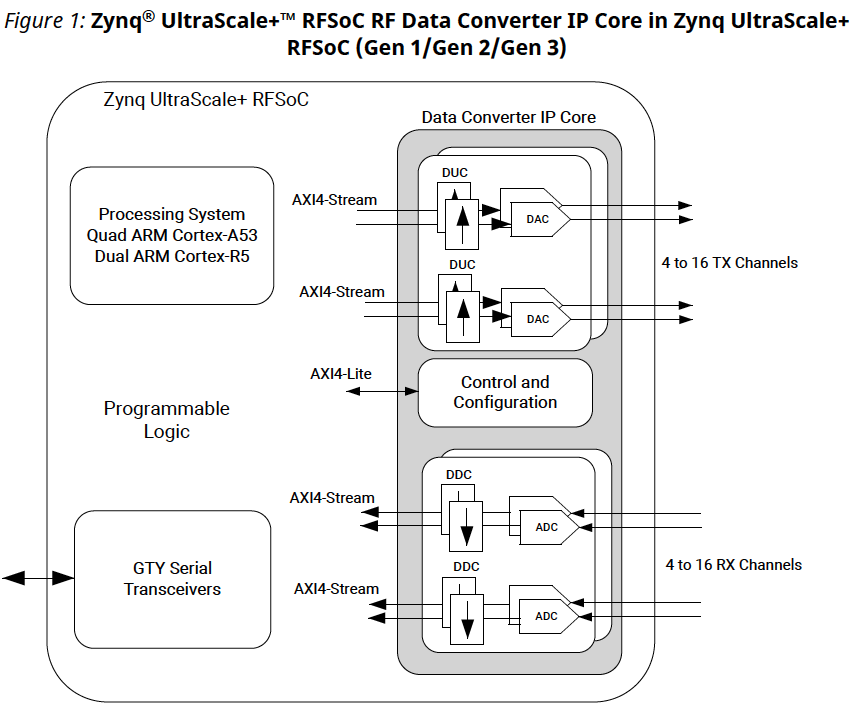
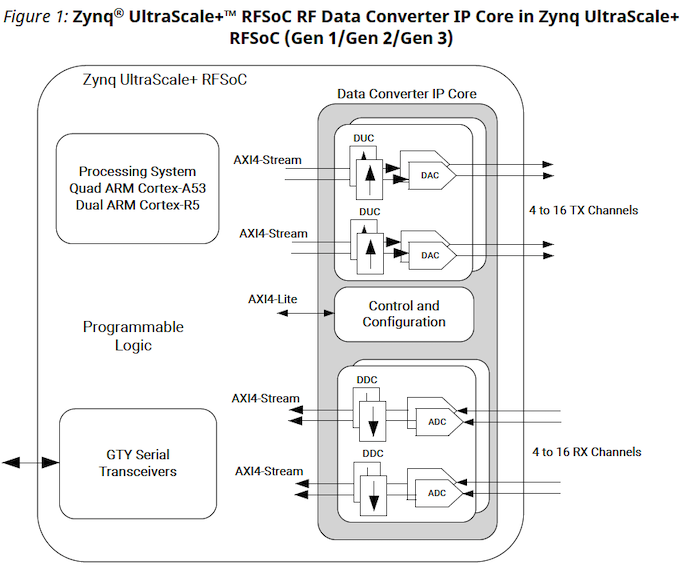
readme update

diff --git a/docs/tutorials/rfsoc/readme.md b/docs/tutorials/rfsoc/readme.md
@@ -1,52 +1,81 @@
 # CASPER RFSoC
 
 # Introduction
-The Xilinx Zynq UltraScale+ RFSoC integrates programmable logic with the Zynq
-ARM (A53) processor, high speed serial transceivers, and several
-multi-gigasample per second ADCs (DACs) capable of digital down (up) conversion
-and direct sampling (synthesis) for RF signals up to 6 GHz (9.85). These
-features are ideal for small form factor and low power digitizers streaming raw
-voltages over 2x100GbE, or suitable as modest sized channelizers using the
-available fabric resources. This documentation aims to introduce RFSoC to the
-CASPER community along with the platforms and capabilities currently supported
-in the CASPER tools. The hardware and design flexibility of RFSoC in CASPER will
+This documentation aims to introduce Xilinx Zynq UltraScale+ RFSoC to the CASPER
+community along with the platforms and capabilities currently supported in the
+CASPER tools. The hardware and design flexibility of RFSoC within CASPER will
 continue to proliferate the design philosophy of CASPER of decreasing the
 time-to-science metric and provide a way of bringing the needed capabilities to
 next generation instruments.
 
+Before starting with the tutorials and reviewing the available platforms, the
+following is a brief introduction and overview of the RFSoC architecture and its
+capabilties. The primary source of the information presented here is Xilinx
+documentation and data sheets pertaining to the [Zynq UltraScale+
+RFSoC][xilinx-rfsoc]. Please reference those materials ([PG269][pg269],
+[DS889][ds889], and [DS926][ds926]) for more details as this is a rehashing of
+only some high-level details.
+
 # The RFSoC
-
-The following is a brief overview of the RFSoC architecture and its capabilties.
-The primary source of the information presented here is [Xilinx documentation and
-data sheets pertaining to the Zynq UltraScale+ RFSoC][xilinx-doc]. Please
-reference those materials for more details as this is a rehashing of only some
-high-level techincal details.
-
-The IP that is the focus of the RFSoC is the [RF Data Converter][pg269] (RFDC).
-A high-level block diagram of the RFSoC architecture with the integration of the
-RFDC is shown in the following figure.
+A high-level block diagram of the RFSoC package is shown in the below figure.
 
 ![](../../_static/img/rfsoc/readme/PG269/RFSoC-Block-Diagram.png)
 
-The RFDC is a hardened IP core implementing all RF capabilities. Since the
-launch of the RFSoC, Xilinx has produced several revisions or "generations" of
-the RFSoC product family.
+The RFSoC integrates programmable logic with the Zynq ARM (A53) processor, high
+speed serial transceivers, and the RF Data Converters (RFDC); a hardened IP core
+implementing all RF functionality. The RFDC groups together multi-gigasample per
+second ADCs (DACs) capable of direct sampling (synthesis) for RF signals up to 6
+GHz (9.85 GHz). Additionally, these cores include digital down (up) converters,
+a mixer capable of a fixed coarse setting or fine frequency tuning by a
+numerically controlled oscillator (NCO), and interpolation and decimation
+filters. A block diagram of the analog signal path for the ADCs is shown in the
+following figure.
 
 ![](../../_static/img/rfsoc/readme/PG269/RFDC-SP-Blk-Diagram.png)
 
+The ADCs and DACs are grouped into "tiles" to some extent similar to the idea of
+other columnar tile components of a Xilinx FPGA. In this case however, the ADCs
+or DACs and their supporting components populate the entire tile. There are two
+different tile architectures found in RFSoC devices: quad-tile and dual-tile.
+The number of tiles found in the device and their capabilities varies between
+RFSoC pacakages and generation. The quad- and dual-tile architectures are
+depicated in the below figure.
+
 ![](../../_static/img/rfsoc/readme/qt-dt-arch12.png)
+
+As the RFDC is the focus of the RFSoC, in order to bring the functionality to
+CASPER an RFDC yellow block is needed to access and configure the IP. This
+yellow block instances the underlying Vivado RFDC IP and interfaces to the
+CASPER user in a similar fashion as would be presented to the hardware designer
+in Vivado providing many of the same configuration options. This was done to
+maintain the flexibility of the RFDC and provide as much control as possible
+over its configuration and provide that to the general CASPER user.
+
+The RFDC yellow block is designed to detect the tile architecture (quad/dual)
+and the generation (gen 1/3) of the selected platform as specified by an RFSoC
+platform yellow block. This provides a forward compatability mechansim as more
+RFSoC platforms are targeted in CASPER and as Xilinx inevitably produces future
+generations of the RFSoC.
 
 # Platforms
 
-![](../../_static/img/rfsoc/readme/rfsoc_spec_table.png)
+![](../../_static/img/rfsoc/readme/casper-rfsoc-yb-platform-summary.png)
 
-The CASPER library contains support for the RFDC are 5 RFSoC platforms that have been tested
+The CASPER library contains support and has been tested for the following 5
+RFSoC platforms:
   * [ZCU216][zcu216]
   * [ZCU111][zcu111]
   * [PYNQ RFSoC 2x2][pynq-rfsoc2x2]
   * [HTG ZRF16-29DR][htg-zrf16] [\*\*][htg-disclaimers]
   * [HTG ZRF16-49DR][htg-zrf16] [\*\*][htg-disclaimers]
 
+A summary of the board resources taken from the Xlinx RFSoC product selection
+guide is shown in the following table. In the context of astronomy signal
+processing these features are ideal for small form factor and low power
+digitizers streaming raw voltages over 2x100GbE, or suitable as modest sized
+channelizers using the available fabric resources.
+
+![](../../_static/img/rfsoc/readme/rfsoc_spec_table.png)
 
 # Tutorials
 * [Getting Started With RFsoC][getting-started]
@@ -56,10 +85,11 @@ The CASPER library contains support for the RFDC are 5 RFSoC platforms that have
 ## Designs
 * [Example Designs][example-designs]
 
-## Xilinx 
-
-[xilinx-doc]: https://www.xilinx.com/products/silicon-devices/soc/rfsoc.html#documentation
+[xilinx-rfsoc]: https://www.xilinx.com/products/silicon-devices/soc/rfsoc.html#documentation
 [pg269]: https://www.xilinx.com/support/documentation/ip_documentation/usp_rf_data_converter/v2_4/pg269-rf-data-converter.pdf
+[ds889]: https://www.xilinx.com/support/documentation/data_sheets/ds889-zynq-usp-rfsoc-overview.pdf
+[ds926]: https://www.xilinx.com/support/documentation/data_sheets/ds926-zynq-ultrascale-plus-rfsoc.pdf
+
 [zcu216]: https://www.xilinx.com/products/boards-and-kits/zcu216.html
 [zcu208]: https://www.xilinx.com/products/boards-and-kits/zcu208.html
 [zcu111]: https://www.xilinx.com/products/boards-and-kits/zcu111.html
@@ -67,8 +97,8 @@ The CASPER library contains support for the RFDC are 5 RFSoC platforms that have
 [pynq-rfsoc2x2]: https://www.rfsoc-pynq.io
 [htg-disclaimers]: ./htg-disclaimers.md
 
-
 [getting-started]: ./tut_getting_started.md
 [platform-overview]: ./tut_platform.md
 [rfdc]: ./tut_rfdc.md
+
 [example-designs]: ./tut_designs/readme.md
